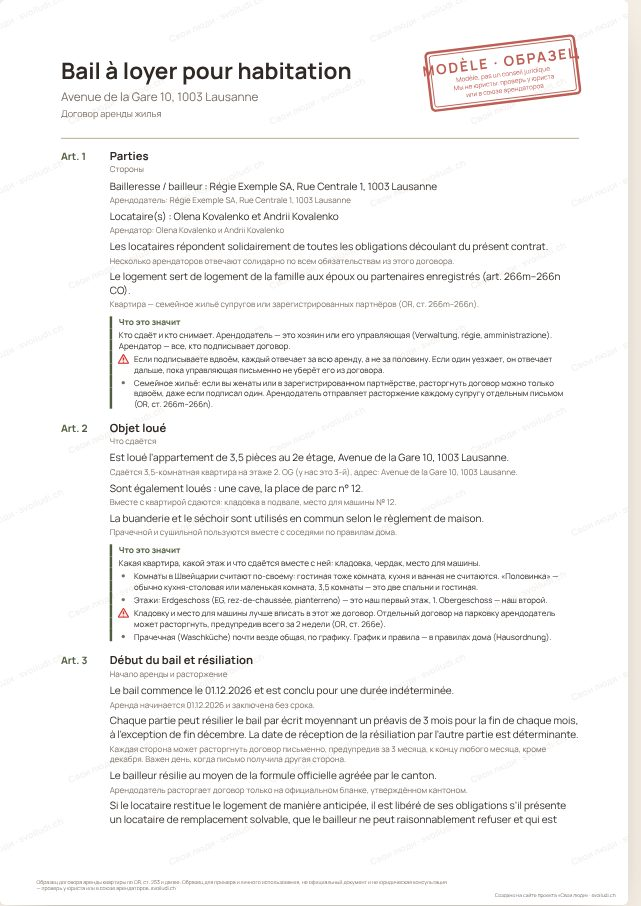
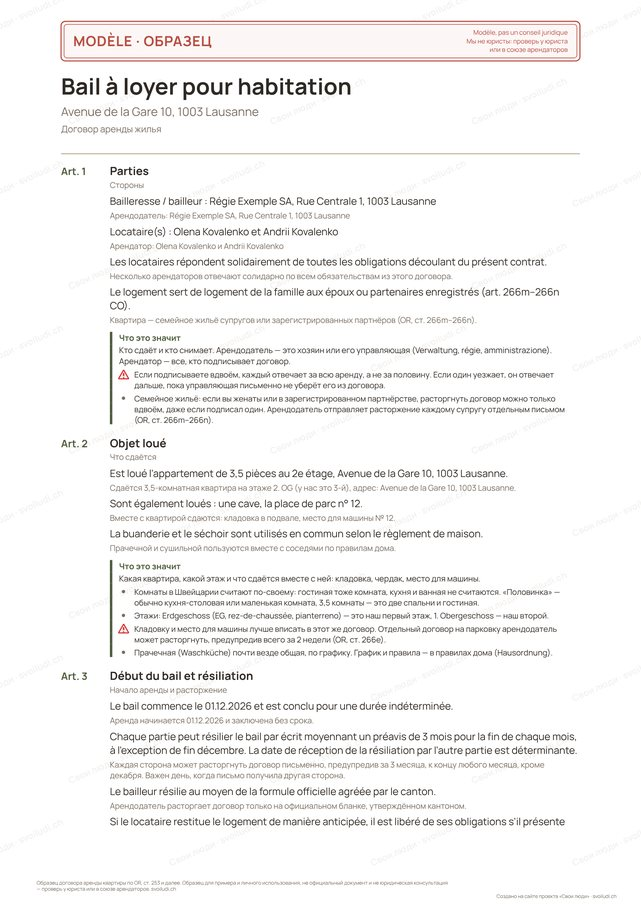
Штамп «ОБРАЗЕЦ» — ровная плашка над текстом вместо наклонной рамки (устав ферайна, договор с няней, договор аренды; RU и UK); веер пересобран; sw.js v73
Claude-Session: https://claude.ai/code/session_01CeRpFVLfkqJXp5cNg7gnfc

diff --git a/assets/shema.js b/assets/shema.js
@@ -56,16 +56,24 @@
      Только в PDF и PNG, не в предпросмотре; там, где строки о сайте нет (этикетки, резюме), номера на листе тоже нет. */
   const docLang = () => CFG.lang ? CFG.lang() : (document.documentElement.lang === 'uk' ? 'uk' : 'ru');
   const docNo = () => (window.SVLDOC && window.SVLDOC.label) ? window.SVLDOC.label(docLang()) : '';
-  /* Штамп «ОБРАЗЕЦ» для шаблонов юридических документов (договоры): pg.stamp = {cx, cy, a, color, lines: [[текст, размер, жирный], …]}.
-     Это предупреждение «мы не юристы», поэтому подписка (SVL_VIP) его не убирает. */
-  const STA = 0.82;
-  /* ширина с запасом 8 %: шрифт мог ещё не загрузиться при замере, а PDF и PNG рисуют чуть шире (09.10.2026) */
-  function stampGeo(st){ const pad = 3.4, ws = st.lines.map(l => tw(l[0], l[2], l[1]) * 1.08), w = Math.max(...ws) + pad * 2; let h = pad * 2 - 1; st.lines.forEach(l => h += l[1] * PT * 1.25); return {w, h, pad}; }
-  /* штамп целиком на листе: не выходит за край (отступ 6 мм) при любом наклоне */
-  function stampFit(pg){ const st = pg.stamp, g = stampGeo(st), a = Math.abs((st.a || 0) * Math.PI / 180), ex = g.w / 2 * Math.cos(a) + g.h / 2 * Math.sin(a), ey = g.w / 2 * Math.sin(a) + g.h / 2 * Math.cos(a), m = 6;
-    st.cx = Math.min(Math.max(st.cx, m + ex), pg.w - m - ex); st.cy = Math.min(Math.max(st.cy, m + ey), pg.h - m - ey); return g; }
-  function rot(st, lx, ly){ const a = (st.a || 0) * Math.PI / 180; return [st.cx + lx * Math.cos(a) + ly * Math.sin(a), st.cy - lx * Math.sin(a) + ly * Math.cos(a)]; }
-  function stampLines(st, g){ let y = -g.h / 2 + g.pad - 0.5; return st.lines.map(l => { y += l[1] * PT * 1.25; const r = [l, y - l[1] * PT * 0.22]; return r; }); }
+  /* Штамп «ОБРАЗЕЦ» для шаблонов юридических документов (договоры, устав) — ровная плашка во всю ширину над текстом
+     (15.10.2026, Ирина: «со штампом проблема уже не в первом документе, поменяй дизайн»). Прежний наклонный штамп стоял
+     поверх страницы и на некоторых языках налезал на заголовок; у плашки своё место, текст страницы начинается под ней.
+     SH.stamp(P, lines, color[, {x, y, w}]) ставит плашку и возвращает её нижний край. lines: [[текст, размер, жирный], …] —
+     первая строка крупно слева, остальные мелко справа, друг под другом. Это предупреждение «мы не юристы»,
+     поэтому подписка (SVL_VIP) его не убирает. */
+  const STA = 0.9, SPX = 4, SPY = 2.3, SLH = 1.32;
+  function stampGeo(st){
+    const big = st.lines[0], sm = st.lines.slice(1), lh = sm.map(l => l[1] * PT * SLH), stackH = lh.reduce((a, b) => a + b, 0);
+    const h = Math.max(big[1] * PT * 0.74, stackH) + SPY * 2;
+    /* если надписи не помещаются в ширину (шрифт ещё не загрузился, длинный перевод) — уменьшаем их, высота плашки та же */
+    const need = tw(big[0], big[2], big[1]) * 1.08 + (sm.length ? Math.max(...sm.map(l => tw(l[0], l[2], l[1]) * 1.08)) + 8 : 0), k = Math.min(1, (st.w - SPX * 2) / need);
+    const out = [[big[0], big[1] * k, big[2], st.x + SPX, st.y + h / 2 + big[1] * k * PT * 0.36, 'left']];
+    let yy = st.y + (h - stackH) / 2;
+    sm.forEach((l, i) => { out.push([l[0], l[1] * k, l[2], st.x + st.w - SPX, yy + lh[i] / 2 + l[1] * PT * 0.34, 'right']); yy += lh[i]; });
+    return {h, lines: out, tint: /^#0{6}$/.test(st.color) ? 0 : 0.05};   /* фон под плашкой белый (водяной знак не просвечивает); без цвета — без заливки */
+  }
+  function stampSet(P, lines, color, o){ o = o || {}; const st = {x: o.x != null ? o.x : 20, y: o.y != null ? o.y : 7, w: o.w || P.w - 40, color: color || '#B03A2E', lines}; P.stamp = st; return st.y + stampGeo(st).h; }
   function svg(pg){
     let o = `<svg viewBox="0 0 ${pg.w} ${pg.h}" xmlns="http://www.w3.org/2000/svg" role="img"><rect width="${pg.w}" height="${pg.h}" fill="#fff"/>`;
     pg.ops.forEach(p => {
@@ -77,9 +85,9 @@
     });
     const mk = marks(pg); if (mk.length) o += `<g fill="${WMC}" fill-opacity="${WMA}" font-family="Manrope" font-weight="700" font-size="${(WMS * PT).toFixed(3)}">` + mk.map(([x, y]) => `<text transform="translate(${x} ${y}) rotate(-24)">${esc(WMT)}</text>`).join('') + '</g>';
     if (showCredit(pg)) o += `<text x="${pg.w - 8}" y="${pg.creditY}" font-family="Manrope" font-size="${(4.6 * PT).toFixed(3)}" fill="#7A6E62" text-anchor="end">${esc(credit())}</text>`;
-    if (pg.stamp) { const st = pg.stamp, g = stampFit(pg);
-      o += `<g transform="translate(${st.cx} ${st.cy}) rotate(${-(st.a || 0)})" opacity="${STA}" fill="none" stroke="${st.color}"><rect x="${-g.w / 2}" y="${-g.h / 2}" width="${g.w}" height="${g.h}" rx="1.2" stroke-width="0.8"/><rect x="${-g.w / 2 + 1.1}" y="${-g.h / 2 + 1.1}" width="${g.w - 2.2}" height="${g.h - 2.2}" rx="0.8" stroke-width="0.3"/>`
-        + stampLines(st, g).map(([l, y]) => `<text x="0" y="${y.toFixed(2)}" stroke="none" fill="${st.color}" font-family="Manrope" font-weight="${l[2] ? 700 : 400}" font-size="${(l[1] * PT).toFixed(3)}" text-anchor="middle">${esc(l[0])}</text>`).join('') + '</g>'; }
+    if (pg.stamp) { const st = pg.stamp, g = stampGeo(st);
+      o += `<rect x="${st.x}" y="${st.y}" width="${st.w}" height="${g.h.toFixed(2)}" rx="1.4" fill="#FFFFFF"/><g opacity="${STA}"><rect x="${st.x}" y="${st.y}" width="${st.w}" height="${g.h.toFixed(2)}" rx="1.4" fill="${st.color}" fill-opacity="${g.tint}" stroke="${st.color}" stroke-width="0.35"/><rect x="${st.x + 1}" y="${st.y + 1}" width="${st.w - 2}" height="${(g.h - 2).toFixed(2)}" rx="0.9" fill="none" stroke="${st.color}" stroke-width="0.2"/>`
+        + g.lines.map(l => `<text x="${l[3].toFixed(2)}" y="${l[4].toFixed(2)}" fill="${st.color}" font-family="Manrope" font-weight="${l[2] ? 700 : 400}" font-size="${(l[1] * PT).toFixed(3)}"${l[2] ? ` letter-spacing="${(l[1] * PT * 0.04).toFixed(3)}"` : ''} text-anchor="${l[5] === 'right' ? 'end' : 'start'}">${esc(l[0])}</text>`).join('') + '</g>'; }
     return o + '</svg>';
   }
   const FONT_FILES = {'Manrope-Regular': '/assets/lib/fonts-pdf/Manrope-Regular.ttf', 'Manrope-Bold': '/assets/lib/fonts-pdf/Manrope-Bold.ttf'};
@@ -117,10 +125,11 @@
       const mk = marks(pg);
       if (mk.length) { const gs = doc.GState ? a => doc.setGState(new doc.GState({opacity: a})) : null; if (gs) gs(WMA); doc.setFont('Manrope-Bold', 'normal'); doc.setFontSize(WMS); doc.setTextColor(...(gs ? hex(WMC) : [240, 235, 228])); mk.forEach(([x, y]) => doc.text(WMT, x, y, {angle: 24})); if (gs) gs(1); }
       if (showCredit(pg)) { doc.setFont('Manrope-Regular', 'normal'); doc.setFontSize(4.6); doc.setTextColor(122, 110, 98); doc.text(credit(), pg.w - 8, pg.creditY, {align: 'right'}); if (no) doc.text(no, pg.w - 8, pg.creditY - 2, {align: 'right'}); }
-      if (pg.stamp) { const st = pg.stamp, g = stampFit(pg), col = hex(st.color), gs = doc.GState ? a => doc.setGState(new doc.GState({opacity: a})) : null; if (gs) gs(STA);
-        const box = (i, lw) => { const hw = g.w / 2 - i, hh = g.h / 2 - i, c = [[-hw, -hh], [hw, -hh], [hw, hh], [-hw, hh]].map(q => rot(st, q[0], q[1])); doc.setLineWidth(lw); for (let k = 0; k < 4; k++) doc.line(c[k][0], c[k][1], c[(k + 1) % 4][0], c[(k + 1) % 4][1]); };
-        doc.setDrawColor(...col); doc.setLineDashPattern([], 0); box(0, 0.8); box(1.1, 0.3); doc.setTextColor(...col);
-        stampLines(st, g).forEach(([l, y]) => { doc.setFont(l[2] ? 'Manrope-Bold' : 'Manrope-Regular', 'normal'); doc.setFontSize(l[1]); const w = doc.getTextWidth(l[0]), p = rot(st, -w / 2, y); doc.text(l[0], p[0], p[1], {angle: st.a || 0}); });
+      if (pg.stamp) { const st = pg.stamp, g = stampGeo(st), col = hex(st.color), gs = doc.GState ? a => doc.setGState(new doc.GState({opacity: a})) : null;
+        if (gs) gs(1); doc.setFillColor(255, 255, 255); doc.roundedRect(st.x, st.y, st.w, g.h, 1.4, 1.4, 'F');
+        if (gs && g.tint) { gs(g.tint * STA); doc.setFillColor(...col); doc.roundedRect(st.x, st.y, st.w, g.h, 1.4, 1.4, 'F'); } if (gs) gs(STA);
+        doc.setDrawColor(...col); doc.setLineDashPattern([], 0); doc.setLineWidth(0.35); doc.roundedRect(st.x, st.y, st.w, g.h, 1.4, 1.4, 'S'); doc.setLineWidth(0.2); doc.roundedRect(st.x + 1, st.y + 1, st.w - 2, g.h - 2, 0.9, 0.9, 'S');
+        doc.setTextColor(...col); g.lines.forEach(l => { doc.setFont(l[2] ? 'Manrope-Bold' : 'Manrope-Regular', 'normal'); doc.setFontSize(l[1]); doc.text(l[0], l[3], l[4], {align: l[5], charSpace: l[2] ? l[1] * PT * 0.04 : 0}); });
         if (gs) gs(1); }
     });
     doc.setProperties({title});
@@ -141,9 +150,11 @@
     const mk = marks(pg);
     if (mk.length) { c.save(); c.globalAlpha = WMA; c.fillStyle = WMC; c.font = '700 ' + (WMS * PT) + 'px Manrope'; c.textAlign = 'left'; mk.forEach(([x, y]) => { c.save(); c.translate(x, y); c.rotate(-24 * Math.PI / 180); c.fillText(WMT, 0, 0); c.restore(); }); c.restore(); }
     if (showCredit(pg)) { c.font = '400 ' + (4.6 * PT) + 'px Manrope'; c.fillStyle = '#7A6E62'; c.textAlign = 'right'; c.fillText(credit(), pg.w - 8, pg.creditY); const no = docNo(); if (no) c.fillText(no, pg.w - 8, pg.creditY - 2); }
-    if (pg.stamp) { const st = pg.stamp, g = stampFit(pg); c.save(); c.globalAlpha = STA; c.translate(st.cx, st.cy); c.rotate(-(st.a || 0) * Math.PI / 180); c.strokeStyle = st.color; c.fillStyle = st.color;
-      c.lineWidth = 0.8; c.strokeRect(-g.w / 2, -g.h / 2, g.w, g.h); c.lineWidth = 0.3; c.strokeRect(-g.w / 2 + 1.1, -g.h / 2 + 1.1, g.w - 2.2, g.h - 2.2); c.textAlign = 'center'; c.textBaseline = 'alphabetic';
-      stampLines(st, g).forEach(([l, y]) => { c.font = (l[2] ? '700 ' : '400 ') + (l[1] * PT) + 'px Manrope'; c.fillText(l[0], 0, y); }); c.restore(); }
+    if (pg.stamp) { const st = pg.stamp, g = stampGeo(st); c.save(); c.globalAlpha = STA; c.fillStyle = st.color; c.strokeStyle = st.color;
+      const rr = (x, y, w, h, r) => { c.beginPath(); if (c.roundRect) c.roundRect(x, y, w, h, r); else c.rect(x, y, w, h); };
+      c.globalAlpha = 1; c.fillStyle = '#FFFFFF'; rr(st.x, st.y, st.w, g.h, 1.4); c.fill(); c.fillStyle = st.color; if (g.tint) { c.globalAlpha = g.tint * STA; c.fill(); }
+      c.globalAlpha = STA; c.lineWidth = 0.35; c.stroke(); rr(st.x + 1, st.y + 1, st.w - 2, g.h - 2, 0.9); c.lineWidth = 0.2; c.stroke();
+      c.textBaseline = 'alphabetic'; g.lines.forEach(l => { c.font = (l[2] ? '700 ' : '400 ') + (l[1] * PT) + 'px Manrope'; c.textAlign = l[5]; if ('letterSpacing' in c) c.letterSpacing = l[2] ? (l[1] * PT * 0.04) + 'px' : '0px'; c.fillText(l[0], l[3], l[4]); }); if ('letterSpacing' in c) c.letterSpacing = '0px'; c.restore(); }
     return new Promise(r => cv.toBlob(r, 'image/png'));
   }
   function save(blob, name){ const a = document.createElement('a'); a.href = URL.createObjectURL(blob); a.download = name; document.body.appendChild(a); a.click(); a.remove(); setTimeout(() => URL.revokeObjectURL(a.href), 4000); }
@@ -166,5 +177,5 @@
     render(); if (document.fonts && document.fonts.ready) document.fonts.ready.then(render);
     return {render, say};
   }
-  window.SH = {PT, tw, wrap, esc, pal, page, svg, makePdf, pagePng, mount, CREDIT};
+  window.SH = {PT, tw, wrap, esc, pal, page, svg, makePdf, pagePng, mount, CREDIT, stamp: stampSet};
 })();

diff --git a/assets/shema.uk.js b/assets/shema.uk.js
@@ -56,16 +56,24 @@
      Только в PDF и PNG, не в предпросмотре; там, где строки о сайте нет (этикетки, резюме), номера на листе тоже нет. */
   const docLang = () => CFG.lang ? CFG.lang() : (document.documentElement.lang === 'uk' ? 'uk' : 'ru');
   const docNo = () => (window.SVLDOC && window.SVLDOC.label) ? window.SVLDOC.label(docLang()) : '';
-  /* Штамп «ОБРАЗЕЦ» для шаблонов юридических документов (договоры): pg.stamp = {cx, cy, a, color, lines: [[текст, размер, жирный], …]}.
-     Это предупреждение «мы не юристы», поэтому подписка (SVL_VIP) его не убирает. */
-  const STA = 0.82;
-  /* ширина с запасом 8 %: шрифт мог ещё не загрузиться при замере, а PDF и PNG рисуют чуть шире (09.10.2026) */
-  function stampGeo(st){ const pad = 3.4, ws = st.lines.map(l => tw(l[0], l[2], l[1]) * 1.08), w = Math.max(...ws) + pad * 2; let h = pad * 2 - 1; st.lines.forEach(l => h += l[1] * PT * 1.25); return {w, h, pad}; }
-  /* штамп целиком на листе: не выходит за край (отступ 6 мм) при любом наклоне */
-  function stampFit(pg){ const st = pg.stamp, g = stampGeo(st), a = Math.abs((st.a || 0) * Math.PI / 180), ex = g.w / 2 * Math.cos(a) + g.h / 2 * Math.sin(a), ey = g.w / 2 * Math.sin(a) + g.h / 2 * Math.cos(a), m = 6;
-    st.cx = Math.min(Math.max(st.cx, m + ex), pg.w - m - ex); st.cy = Math.min(Math.max(st.cy, m + ey), pg.h - m - ey); return g; }
-  function rot(st, lx, ly){ const a = (st.a || 0) * Math.PI / 180; return [st.cx + lx * Math.cos(a) + ly * Math.sin(a), st.cy - lx * Math.sin(a) + ly * Math.cos(a)]; }
-  function stampLines(st, g){ let y = -g.h / 2 + g.pad - 0.5; return st.lines.map(l => { y += l[1] * PT * 1.25; const r = [l, y - l[1] * PT * 0.22]; return r; }); }
+  /* Штамп «ОБРАЗЕЦ» для шаблонов юридических документов (договоры, устав) — ровная плашка во всю ширину над текстом
+     (15.10.2026, Ирина: «со штампом проблема уже не в первом документе, поменяй дизайн»). Прежний наклонный штамп стоял
+     поверх страницы и на некоторых языках налезал на заголовок; у плашки своё место, текст страницы начинается под ней.
+     SH.stamp(P, lines, color[, {x, y, w}]) ставит плашку и возвращает её нижний край. lines: [[текст, размер, жирный], …] —
+     первая строка крупно слева, остальные мелко справа, друг под другом. Это предупреждение «мы не юристы»,
+     поэтому подписка (SVL_VIP) его не убирает. */
+  const STA = 0.9, SPX = 4, SPY = 2.3, SLH = 1.32;
+  function stampGeo(st){
+    const big = st.lines[0], sm = st.lines.slice(1), lh = sm.map(l => l[1] * PT * SLH), stackH = lh.reduce((a, b) => a + b, 0);
+    const h = Math.max(big[1] * PT * 0.74, stackH) + SPY * 2;
+    /* если надписи не помещаются в ширину (шрифт ещё не загрузился, длинный перевод) — уменьшаем их, высота плашки та же */
+    const need = tw(big[0], big[2], big[1]) * 1.08 + (sm.length ? Math.max(...sm.map(l => tw(l[0], l[2], l[1]) * 1.08)) + 8 : 0), k = Math.min(1, (st.w - SPX * 2) / need);
+    const out = [[big[0], big[1] * k, big[2], st.x + SPX, st.y + h / 2 + big[1] * k * PT * 0.36, 'left']];
+    let yy = st.y + (h - stackH) / 2;
+    sm.forEach((l, i) => { out.push([l[0], l[1] * k, l[2], st.x + st.w - SPX, yy + lh[i] / 2 + l[1] * PT * 0.34, 'right']); yy += lh[i]; });
+    return {h, lines: out, tint: /^#0{6}$/.test(st.color) ? 0 : 0.05};   /* фон под плашкой белый (водяной знак не просвечивает); без цвета — без заливки */
+  }
+  function stampSet(P, lines, color, o){ o = o || {}; const st = {x: o.x != null ? o.x : 20, y: o.y != null ? o.y : 7, w: o.w || P.w - 40, color: color || '#B03A2E', lines}; P.stamp = st; return st.y + stampGeo(st).h; }
   function svg(pg){
     let o = `<svg viewBox="0 0 ${pg.w} ${pg.h}" xmlns="http://www.w3.org/2000/svg" role="img"><rect width="${pg.w}" height="${pg.h}" fill="#fff"/>`;
     pg.ops.forEach(p => {
@@ -77,9 +85,9 @@
     });
     const mk = marks(pg); if (mk.length) o += `<g fill="${WMC}" fill-opacity="${WMA}" font-family="Manrope" font-weight="700" font-size="${(WMS * PT).toFixed(3)}">` + mk.map(([x, y]) => `<text transform="translate(${x} ${y}) rotate(-24)">${esc(WMT)}</text>`).join('') + '</g>';
     if (showCredit(pg)) o += `<text x="${pg.w - 8}" y="${pg.creditY}" font-family="Manrope" font-size="${(4.6 * PT).toFixed(3)}" fill="#7A6E62" text-anchor="end">${esc(credit())}</text>`;
-    if (pg.stamp) { const st = pg.stamp, g = stampFit(pg);
-      o += `<g transform="translate(${st.cx} ${st.cy}) rotate(${-(st.a || 0)})" opacity="${STA}" fill="none" stroke="${st.color}"><rect x="${-g.w / 2}" y="${-g.h / 2}" width="${g.w}" height="${g.h}" rx="1.2" stroke-width="0.8"/><rect x="${-g.w / 2 + 1.1}" y="${-g.h / 2 + 1.1}" width="${g.w - 2.2}" height="${g.h - 2.2}" rx="0.8" stroke-width="0.3"/>`
-        + stampLines(st, g).map(([l, y]) => `<text x="0" y="${y.toFixed(2)}" stroke="none" fill="${st.color}" font-family="Manrope" font-weight="${l[2] ? 700 : 400}" font-size="${(l[1] * PT).toFixed(3)}" text-anchor="middle">${esc(l[0])}</text>`).join('') + '</g>'; }
+    if (pg.stamp) { const st = pg.stamp, g = stampGeo(st);
+      o += `<rect x="${st.x}" y="${st.y}" width="${st.w}" height="${g.h.toFixed(2)}" rx="1.4" fill="#FFFFFF"/><g opacity="${STA}"><rect x="${st.x}" y="${st.y}" width="${st.w}" height="${g.h.toFixed(2)}" rx="1.4" fill="${st.color}" fill-opacity="${g.tint}" stroke="${st.color}" stroke-width="0.35"/><rect x="${st.x + 1}" y="${st.y + 1}" width="${st.w - 2}" height="${(g.h - 2).toFixed(2)}" rx="0.9" fill="none" stroke="${st.color}" stroke-width="0.2"/>`
+        + g.lines.map(l => `<text x="${l[3].toFixed(2)}" y="${l[4].toFixed(2)}" fill="${st.color}" font-family="Manrope" font-weight="${l[2] ? 700 : 400}" font-size="${(l[1] * PT).toFixed(3)}"${l[2] ? ` letter-spacing="${(l[1] * PT * 0.04).toFixed(3)}"` : ''} text-anchor="${l[5] === 'right' ? 'end' : 'start'}">${esc(l[0])}</text>`).join('') + '</g>'; }
     return o + '</svg>';
   }
   const FONT_FILES = {'Manrope-Regular': '/assets/lib/fonts-pdf/Manrope-Regular.ttf', 'Manrope-Bold': '/assets/lib/fonts-pdf/Manrope-Bold.ttf'};
@@ -117,10 +125,11 @@
       const mk = marks(pg);
       if (mk.length) { const gs = doc.GState ? a => doc.setGState(new doc.GState({opacity: a})) : null; if (gs) gs(WMA); doc.setFont('Manrope-Bold', 'normal'); doc.setFontSize(WMS); doc.setTextColor(...(gs ? hex(WMC) : [240, 235, 228])); mk.forEach(([x, y]) => doc.text(WMT, x, y, {angle: 24})); if (gs) gs(1); }
       if (showCredit(pg)) { doc.setFont('Manrope-Regular', 'normal'); doc.setFontSize(4.6); doc.setTextColor(122, 110, 98); doc.text(credit(), pg.w - 8, pg.creditY, {align: 'right'}); if (no) doc.text(no, pg.w - 8, pg.creditY - 2, {align: 'right'}); }
-      if (pg.stamp) { const st = pg.stamp, g = stampFit(pg), col = hex(st.color), gs = doc.GState ? a => doc.setGState(new doc.GState({opacity: a})) : null; if (gs) gs(STA);
-        const box = (i, lw) => { const hw = g.w / 2 - i, hh = g.h / 2 - i, c = [[-hw, -hh], [hw, -hh], [hw, hh], [-hw, hh]].map(q => rot(st, q[0], q[1])); doc.setLineWidth(lw); for (let k = 0; k < 4; k++) doc.line(c[k][0], c[k][1], c[(k + 1) % 4][0], c[(k + 1) % 4][1]); };
-        doc.setDrawColor(...col); doc.setLineDashPattern([], 0); box(0, 0.8); box(1.1, 0.3); doc.setTextColor(...col);
-        stampLines(st, g).forEach(([l, y]) => { doc.setFont(l[2] ? 'Manrope-Bold' : 'Manrope-Regular', 'normal'); doc.setFontSize(l[1]); const w = doc.getTextWidth(l[0]), p = rot(st, -w / 2, y); doc.text(l[0], p[0], p[1], {angle: st.a || 0}); });
+      if (pg.stamp) { const st = pg.stamp, g = stampGeo(st), col = hex(st.color), gs = doc.GState ? a => doc.setGState(new doc.GState({opacity: a})) : null;
+        if (gs) gs(1); doc.setFillColor(255, 255, 255); doc.roundedRect(st.x, st.y, st.w, g.h, 1.4, 1.4, 'F');
+        if (gs && g.tint) { gs(g.tint * STA); doc.setFillColor(...col); doc.roundedRect(st.x, st.y, st.w, g.h, 1.4, 1.4, 'F'); } if (gs) gs(STA);
+        doc.setDrawColor(...col); doc.setLineDashPattern([], 0); doc.setLineWidth(0.35); doc.roundedRect(st.x, st.y, st.w, g.h, 1.4, 1.4, 'S'); doc.setLineWidth(0.2); doc.roundedRect(st.x + 1, st.y + 1, st.w - 2, g.h - 2, 0.9, 0.9, 'S');
+        doc.setTextColor(...col); g.lines.forEach(l => { doc.setFont(l[2] ? 'Manrope-Bold' : 'Manrope-Regular', 'normal'); doc.setFontSize(l[1]); doc.text(l[0], l[3], l[4], {align: l[5], charSpace: l[2] ? l[1] * PT * 0.04 : 0}); });
         if (gs) gs(1); }
     });
     doc.setProperties({title});
@@ -141,9 +150,11 @@
     const mk = marks(pg);
     if (mk.length) { c.save(); c.globalAlpha = WMA; c.fillStyle = WMC; c.font = '700 ' + (WMS * PT) + 'px Manrope'; c.textAlign = 'left'; mk.forEach(([x, y]) => { c.save(); c.translate(x, y); c.rotate(-24 * Math.PI / 180); c.fillText(WMT, 0, 0); c.restore(); }); c.restore(); }
     if (showCredit(pg)) { c.font = '400 ' + (4.6 * PT) + 'px Manrope'; c.fillStyle = '#7A6E62'; c.textAlign = 'right'; c.fillText(credit(), pg.w - 8, pg.creditY); const no = docNo(); if (no) c.fillText(no, pg.w - 8, pg.creditY - 2); }
-    if (pg.stamp) { const st = pg.stamp, g = stampFit(pg); c.save(); c.globalAlpha = STA; c.translate(st.cx, st.cy); c.rotate(-(st.a || 0) * Math.PI / 180); c.strokeStyle = st.color; c.fillStyle = st.color;
-      c.lineWidth = 0.8; c.strokeRect(-g.w / 2, -g.h / 2, g.w, g.h); c.lineWidth = 0.3; c.strokeRect(-g.w / 2 + 1.1, -g.h / 2 + 1.1, g.w - 2.2, g.h - 2.2); c.textAlign = 'center'; c.textBaseline = 'alphabetic';
-      stampLines(st, g).forEach(([l, y]) => { c.font = (l[2] ? '700 ' : '400 ') + (l[1] * PT) + 'px Manrope'; c.fillText(l[0], 0, y); }); c.restore(); }
+    if (pg.stamp) { const st = pg.stamp, g = stampGeo(st); c.save(); c.globalAlpha = STA; c.fillStyle = st.color; c.strokeStyle = st.color;
+      const rr = (x, y, w, h, r) => { c.beginPath(); if (c.roundRect) c.roundRect(x, y, w, h, r); else c.rect(x, y, w, h); };
+      c.globalAlpha = 1; c.fillStyle = '#FFFFFF'; rr(st.x, st.y, st.w, g.h, 1.4); c.fill(); c.fillStyle = st.color; if (g.tint) { c.globalAlpha = g.tint * STA; c.fill(); }
+      c.globalAlpha = STA; c.lineWidth = 0.35; c.stroke(); rr(st.x + 1, st.y + 1, st.w - 2, g.h - 2, 0.9); c.lineWidth = 0.2; c.stroke();
+      c.textBaseline = 'alphabetic'; g.lines.forEach(l => { c.font = (l[2] ? '700 ' : '400 ') + (l[1] * PT) + 'px Manrope'; c.textAlign = l[5]; if ('letterSpacing' in c) c.letterSpacing = l[2] ? (l[1] * PT * 0.04) + 'px' : '0px'; c.fillText(l[0], l[3], l[4]); }); if ('letterSpacing' in c) c.letterSpacing = '0px'; c.restore(); }
     return new Promise(r => cv.toBlob(r, 'image/png'));
   }
   function save(blob, name){ const a = document.createElement('a'); a.href = URL.createObjectURL(blob); a.download = name; document.body.appendChild(a); a.click(); a.remove(); setTimeout(() => URL.revokeObjectURL(a.href), 4000); }
@@ -166,5 +177,5 @@
     render(); if (document.fonts && document.fonts.ready) document.fonts.ready.then(render);
     return {render, say};
   }
-  window.SH = {PT, tw, wrap, esc, pal, page, svg, makePdf, pagePng, mount, CREDIT};
+  window.SH = {PT, tw, wrap, esc, pal, page, svg, makePdf, pagePng, mount, CREDIT, stamp: stampSet};
 })();

diff --git a/instrumenty/dogovor-nyani/index.html b/instrumenty/dogovor-nyani/index.html
@@ -272,7 +272,7 @@ function build(){
   const pages = []; let P, y; const X = 20, W = 170, BOT = 278;
   /* штамп «ОБРАЗЕЦ» на каждой странице: мы не юристы (просьба Ирины 08.10.2026) */
   const STL = [[{de: 'MUSTER', fr: 'MODÈLE', it: 'MODELLO'}[L] + (R ? ' · ОБРАЗЕЦ' : ''), 13, true], [{de: 'Vorlage, keine Rechtsberatung', fr: 'Modèle, pas un conseil juridique', it: 'Modello, non una consulenza legale'}[L], 6, false]].concat(R ? [['Мы не юристы: проверь у юриста или в профсоюзе', 6, false]] : []);
-  const np = () => { const first = !pages.length; P = SH.page(210, 297, C); P.stamp = {cx: 162, cy: first ? 23 : 14, a: 7, color: d.bw ? '#000000' : '#B03A2E', lines: STL}; pages.push(P); y = first ? 22 : 33; };
+  const np = () => { const first = !pages.length; P = SH.page(210, 297, C); pages.push(P); y = SH.stamp(P, STL, d.bw ? '#000000' : '#B03A2E') + (first ? 7 : 10); };
   const need = h => { if (y + h > BOT) np(); };
   const para = (s, size, b, col, lh) => { const lines = SH.wrap(s, b, size, W); lines.forEach(l => { need(lh); P.text(l, X, y, size, b, col); y += lh; }); };
   np();

diff --git a/uk/instrumenty/dogovor-nyani/index.html b/uk/instrumenty/dogovor-nyani/index.html
@@ -272,7 +272,7 @@ function build(){
   const pages = []; let P, y; const X = 20, W = 170, BOT = 278;
   /* штамп «ОБРАЗЕЦ» на каждой странице: мы не юристы (просьба Ирины 08.10.2026) */
   const STL = [[{de: 'MUSTER', fr: 'MODÈLE', it: 'MODELLO'}[L] + (R ? ' · ЗРАЗОК' : ''), 13, true], [{de: 'Vorlage, keine Rechtsberatung', fr: 'Modèle, pas un conseil juridique', it: 'Modello, non una consulenza legale'}[L], 6, false]].concat(R ? [['Ми не юристи: перевір у юриста або в профспілці', 6, false]] : []);
-  const np = () => { const first = !pages.length; P = SH.page(210, 297, C); P.stamp = {cx: 162, cy: first ? 23 : 14, a: 7, color: d.bw ? '#000000' : '#B03A2E', lines: STL}; pages.push(P); y = first ? 22 : 33; };
+  const np = () => { const first = !pages.length; P = SH.page(210, 297, C); pages.push(P); y = SH.stamp(P, STL, d.bw ? '#000000' : '#B03A2E') + (first ? 7 : 10); };
   const need = h => { if (y + h > BOT) np(); };
   const para = (s, size, b, col, lh) => { const lines = SH.wrap(s, b, size, W); lines.forEach(l => { need(lh); P.text(l, X, y, size, b, col); y += lh; }); };
   np();

diff --git a/instrumenty/dogovor-arendy-obrazec/index.html b/instrumenty/dogovor-arendy-obrazec/index.html
@@ -434,7 +434,7 @@ function build(){
   const A = articles(L, d), Ar = R || E ? articles('ru', d) : null, t = TT[L], tr = TT.ru;
   const pages = []; let P, y; const X = 20, Wd = 170, BOT = 278;
   const STL = [[{de: 'MUSTER', fr: 'MODÈLE', it: 'MODELLO'}[L] + ' · ОБРАЗЕЦ', 13, true], [{de: 'Vorlage, keine Rechtsberatung', fr: 'Modèle, pas un conseil juridique', it: 'Modello, non una consulenza legale'}[L], 6, false], ['Мы не юристы: проверь у юриста', 6, false], ['или в союзе арендаторов', 6, false]];
-  const np = () => { const first = !pages.length; P = SH.page(210, 297, C); P.stamp = {cx: 160, cy: first ? 24 : 15, a: 7, color: d.bw ? '#000000' : '#B03A2E', lines: STL}; pages.push(P); y = first ? 22 : 36; };
+  const np = () => { const first = !pages.length; P = SH.page(210, 297, C); pages.push(P); y = SH.stamp(P, STL, d.bw ? '#000000' : '#B03A2E') + (first ? 7 : 10); };
   const need = h => { if (y + h > BOT) np(); };
   const para = (s, size, b, col, lh, x) => { SH.wrap(s, b, size, Wd - ((x || X) - X)).forEach(l => { need(lh); P.text(l, x || X, y, size, b, col); y += lh; }); };
   np();

diff --git a/uk/instrumenty/dogovor-arendy-obrazec/index.html b/uk/instrumenty/dogovor-arendy-obrazec/index.html
@@ -434,7 +434,7 @@ function build(){
   const A = articles(L, d), Ar = R || E ? articles('ru', d) : null, t = TT[L], tr = TT.ru;
   const pages = []; let P, y; const X = 20, Wd = 170, BOT = 278;
   const STL = [[{de: 'MUSTER', fr: 'MODÈLE', it: 'MODELLO'}[L] + ' · ЗРАЗОК', 13, true], [{de: 'Vorlage, keine Rechtsberatung', fr: 'Modèle, pas un conseil juridique', it: 'Modello, non una consulenza legale'}[L], 6, false], ['Ми не юристи: перевір у юриста', 6, false], ['або в спілці орендарів', 6, false]];
-  const np = () => { const first = !pages.length; P = SH.page(210, 297, C); P.stamp = {cx: 160, cy: first ? 24 : 15, a: 7, color: d.bw ? '#000000' : '#B03A2E', lines: STL}; pages.push(P); y = first ? 22 : 36; };
+  const np = () => { const first = !pages.length; P = SH.page(210, 297, C); pages.push(P); y = SH.stamp(P, STL, d.bw ? '#000000' : '#B03A2E') + (first ? 7 : 10); };
   const need = h => { if (y + h > BOT) np(); };
   const para = (s, size, b, col, lh, x) => { SH.wrap(s, b, size, Wd - ((x || X) - X)).forEach(l => { need(lh); P.text(l, x || X, y, size, b, col); y += lh; }); };
   np();

diff --git a/instrumenty/statuty-fereyna/index.html b/instrumenty/statuty-fereyna/index.html
@@ -289,7 +289,7 @@ function build(){
   const t = statuten(L, d), tr = R ? statuten('ru', d) : null;
   const pages = []; let P, y; const X = 20, W = 170, BOT = 278;
   const STL = [[{de: 'MUSTER', fr: 'MODÈLE', it: 'MODELLO'}[L] + (R ? ' · ОБРАЗЕЦ' : ''), 13, true], [{de: 'Vorlage, keine Rechtsberatung', fr: 'Modèle, pas un conseil juridique', it: 'Modello, non una consulenza legale'}[L], 6, false]].concat(R ? [['Мы не юристы: проверь у юриста', 6, false]] : []);
-  const np = () => { const first = !pages.length; P = SH.page(210, 297, C); P.stamp = {cx: 165, cy: first ? 22 : 14, a: 7, color: d.bw ? '#000000' : '#B03A2E', lines: STL}; pages.push(P); y = first ? 22 : 33; };
+  const np = () => { const first = !pages.length; P = SH.page(210, 297, C); pages.push(P); y = SH.stamp(P, STL, d.bw ? '#000000' : '#B03A2E') + (first ? 7 : 10); };
   const need = h => { if (y + h > BOT) np(); };
   const para = (s, size, b, col, lh, x) => { SH.wrap(s, b, size, W - ((x || X) - X)).forEach(l => { need(lh); P.text(l, x || X, y, size, b, col); y += lh; }); };
   /* устав */

diff --git a/uk/instrumenty/statuty-fereyna/index.html b/uk/instrumenty/statuty-fereyna/index.html
@@ -289,7 +289,7 @@ function build(){
   const t = statuten(L, d), tr = R ? statuten('ru', d) : null;
   const pages = []; let P, y; const X = 20, W = 170, BOT = 278;
   const STL = [[{de: 'MUSTER', fr: 'MODÈLE', it: 'MODELLO'}[L] + (R ? ' · ЗРАЗОК' : ''), 13, true], [{de: 'Vorlage, keine Rechtsberatung', fr: 'Modèle, pas un conseil juridique', it: 'Modello, non una consulenza legale'}[L], 6, false]].concat(R ? [['Ми не юристи: перевір у юриста', 6, false]] : []);
-  const np = () => { const first = !pages.length; P = SH.page(210, 297, C); P.stamp = {cx: 165, cy: first ? 22 : 14, a: 7, color: d.bw ? '#000000' : '#B03A2E', lines: STL}; pages.push(P); y = first ? 22 : 33; };
+  const np = () => { const first = !pages.length; P = SH.page(210, 297, C); pages.push(P); y = SH.stamp(P, STL, d.bw ? '#000000' : '#B03A2E') + (first ? 7 : 10); };
   const need = h => { if (y + h > BOT) np(); };
   const para = (s, size, b, col, lh, x) => { SH.wrap(s, b, size, W - ((x || X) - X)).forEach(l => { need(lh); P.text(l, x || X, y, size, b, col); y += lh; }); };
   /* устав */

diff --git a/sw.js b/sw.js
@@ -3,7 +3,7 @@
    Файлы (стили, скрипты, шрифты, картинки): сразу из памяти, в фоне обновляются.
    Личные записи людей здесь не хранятся: они остаются в localStorage браузера, как раньше.
    При изменении этого файла поднять VERSION — старая память удалится. */
-const VERSION = 'v73-2026-10-15';
+const VERSION = 'v74-2026-10-15';
 const CACHE = 'svoiludi-' + VERSION;
 const CORE = ['/offline.html', '/assets/fonts.css', '/assets/pwa-app.js', '/fav/icon-192.png', '/fav/favicon.svg'];
 const MAX = 160;

diff --git a/_i18n/JOURNAL.md b/_i18n/JOURNAL.md
@@ -179,8 +179,10 @@
 
 - 15.10.2026, 15:45 — ВЫЛОЖЕНО по просьбе Ирины (15:06: «статью про ферайны можешь разместить и перевести на украинский»; разовое исключение из паузы переводов, записано в `_i18n/PAUSE_TRANSLATIONS.md`): украинская тема «Ферайн: як створити, податки і гроші» (`uk/shveycariya/ferajn/`), блок «Твій кантон» для ферайнів (assets/kantony.uk.js, assets/temy.uk.js), новые строки темы «Ферайни» (`uk/shveycariya/vereine/`), карточки на `uk/shveycariya/`, «Що нового» за 14–15.10, украинский поиск, превью ссылки (og-image.uk.jpg); у русской темы — переход на украинскую. 263 фразы в `_i18n/tm_uk.json`, 3 — в `tm_search_uk.json`, проверка `sync.problems` чистая, `node _i18n/smoke.js` — ALL OK. sw.js v72.
 - 15.10.2026 — копия (ветка kopiya-schet-nomer): «Счёт клиенту с QR-квитанцией» — номер карточки или UID подставляет имя или фирму, адрес, телефон и e-mail из открытой карточки; IBAN и НДС вписывают сами
-- 15.10.2026 — ВЫЛОЖЕНО по «Размести с переводом» Ирины (15:28): «Счёт клиенту с QR-квитанцией» — номер карточки или UID подставляет фирму или имя, адрес, телефон и e-mail из открытой карточки; RU и UA (разовое исключение из паузы переводов — только этот инструмент); sw.js v73. Заодно uk/shveycariya/ferajn — превью ссылки og-image.uk.jpg (сборка)
+- 15.10.2026 — ВЫЛОЖЕНО по «Размести с переводом» Ирины (15:28): «Счёт клиенту с QR-квитанцией» — номер карточки или UID подставляет фирму или имя, адрес, телефон и e-mail из открытой карточки; RU и UA (разовое исключение из паузы переводов — только этот инструмент); sw.js v74 (v73 уже занят выкладкой «Счёт по номеру карточки»). Заодно uk/shveycariya/ferajn — превью ссылки og-image.uk.jpg (сборка)
 - 15.10.2026 — для ветки kopiya-schet-vznosy («Взносы членов ферайна»): при выкладке слить с main — в instrumenty/schet-qr/index.html будут конфликты (HELP, fill(), блок перед EXD); решаются объединением обеих сторон, в fill() оставить $('findQ').disabled = $('findBtn').disabled = !!EX; проверено 15.10.2026 — поиск карточки работает и в режиме взносов (OR-… подставляет данные ферайна)
 - 15.10.2026 — SG-0031: зал в Клотене пока не работает (ответ владельца карточки 14.10.2026) — в карточке тренера только Зиссельн (место и строка «Формат»); RU и UA.
 - 15.10.2026 — Одно «Подтверждаю» (решение Ирины 15.10.2026, 15:26): будущие занятия и события пробной карточки с тем же ключом подтверждаются вместе с карточкой — в окне подтверждения две галочки о них («мои», «в моей компетенции и по закону»), список в письме-подтверждении, параметр ev в запросе; на странице записи вместо «Подтверждаю» — «Открыть карточку и подтвердить»; текст о черновиках в письмах. Акции и объявления — по-прежнему каждое своей ссылкой. Пробная карточка организации в Ааргау: регулярные тренировки по учебному году (до 02.07.2027, без школьных каникул и праздников Ааргау). RU и UA.
 - 15.10.2026 — карточка фирмы владелицы SG-0054 в «Организациях» (скрыта, на подтверждении, тот же ключ, что у SG-0054; по просьбе Ирины); новая категория организаций «Маркетинговое и рекламное агентство» в «Бюро и агентства» (113 категорий), новость в «Что нового»; RU и UA (карточка и категория).
+
+- 15.10.2026, 16:50 — ИСПРАВЛЕНИЕ по просьбе Ирины (16:27: «со штампом проблема уже не в первом документе, поменяй дизайн»): штамп «ОБРАЗЕЦ / MUSTER · ЗРАЗОК» в общем движке `assets/shema.js` (и `shema.uk.js`) — вместо наклонной рамки поверх страницы ровная плашка во всю ширину над текстом: крупно «MUSTER · ОБРАЗЕЦ» слева, «Vorlage, keine Rechtsberatung» и «Мы не юристы…» мелко справа, белый фон (водяной знак не просвечивает), без цвета — без заливки. Новый вызов `SH.stamp(P, lines, color)` возвращает нижний край плашки, текст страницы начинается под ней, поэтому заголовок и текст плашка не задевает никогда. Перешли все три документа со штампом: устав ферайна, договор с няней, образец договора аренды (RU и UK). Проверка: 72 варианта (3 документа × RU/UK × языки × с переводом и без × цвет/ч-б) — плашка не пересекает ни текст, ни линии на всех страницах; PDF и PNG как в предпросмотре. Картинки веера этих трёх инструментов (`instrumenty/preview/…`, RU и UK) пересобраны. sw.js v74 (v73 уже занят выкладкой «Счёт по номеру карточки»).
